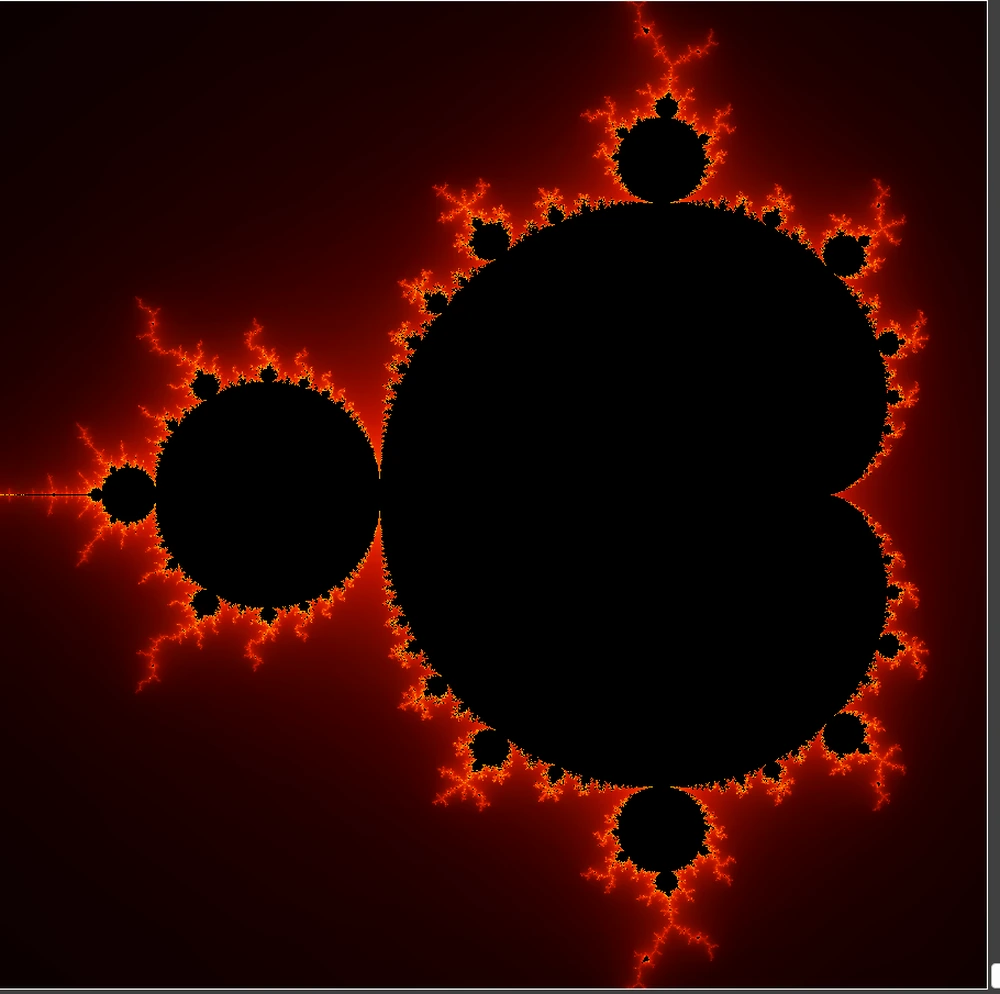
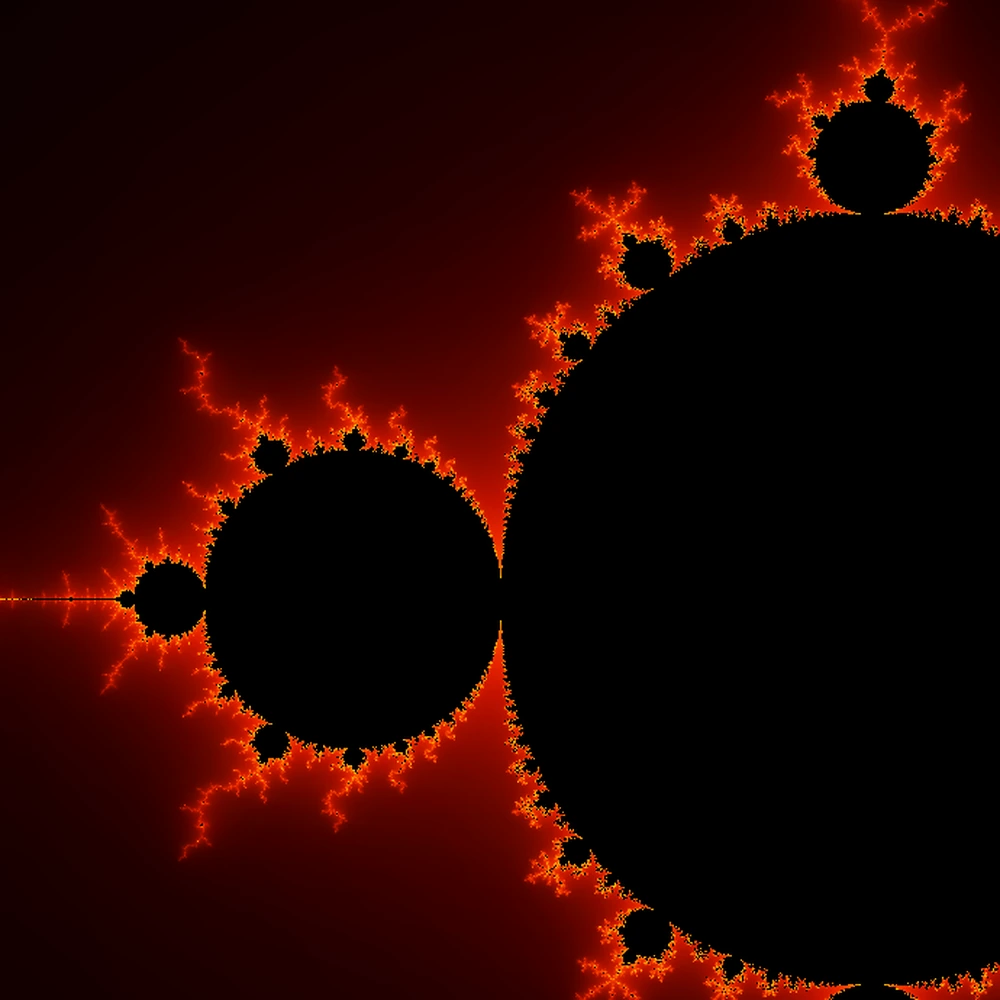
small tweaks

diff --git a/gallery.html b/gallery.html
@@ -25,7 +25,7 @@
 <header class="site-header">
   <div class="nav-wrap">
     <a class="brand" href="index.html" aria-label="Shaoda Ji homepage">
-      <span class="brand-mark">SJ</span><span class="brand-text">Shaoda Ji</span>
+      <span class="brand-mark">SJ</span><span class="brand-text" data-en="Shaoda Ji" data-zh="汲绍达">Shaoda Ji</span>
     </a>
     <nav id="site-nav" class="nav-links" aria-label="Main navigation"><a href="index.html" data-en="Home" data-zh="首页">Home</a><a href="research.html" data-en="Research" data-zh="研究">Research</a><a href="teaching.html" data-en="Teaching" data-zh="教学">Teaching</a><a href="notes.html" data-en="Notes" data-zh="笔记">Notes</a><a href="cv.html" data-en="CV" data-zh="简历">CV</a><a href="gallery.html" aria-current="page" data-en="Gallery" data-zh="图集">Gallery</a></nav>
     <div class="nav-controls">
@@ -33,7 +33,7 @@
         <span class="control-icon" data-theme-icon aria-hidden="true">☾</span><span class="control-label" data-theme-label>Dark</span>
       </button>
       <button class="control-button" type="button" data-language-toggle aria-label="切换到简体中文" title="切换到简体中文">
-        <span class="control-icon" aria-hidden="true">文</span><span class="control-label" data-language-label>中文</span>
+        <span class="control-icon" aria-hidden="true">🌐</span><span class="control-label" data-language-label>中文</span>
       </button>
       <button class="menu-button" type="button" aria-expanded="false" aria-controls="site-nav" data-en="Menu" data-zh="菜单">Menu</button>
     </div>
@@ -47,7 +47,7 @@
 <section class="section gallery-section section-rule" id="visualization"><div class="container">
   <div class="section-head"><p class="page-kicker" data-en="Visualization" data-zh="可视化">Visualization</p><h2 data-en="Mandelbrot Set" data-zh="曼德博集合">Mandelbrot Set</h2><p data-en="A mathematical visualization generated with my graphing calculator." data-zh="使用我的绘图计算器生成的数学可视化。">A mathematical visualization generated with my graphing calculator.</p></div>
   <article class="gallery-entry">
-    <a class="gallery-media" href="assets/img/gallery-mandelbrot.webp" aria-label="Open the Mandelbrot set image"><img src="assets/img/gallery-mandelbrot.webp" width="1000" height="994" loading="lazy" alt="Mandelbrot set rendered in orange and black" data-alt-en="Mandelbrot set rendered in orange and black" data-alt-zh="以橙色与黑色呈现的曼德博集合"></a>
+    <a class="gallery-media" href="assets/img/gallery-mandelbrot.webp" aria-label="Open the Mandelbrot set image"><img src="assets/img/gallery-mandelbrot.webp" width="1000" height="1000" loading="lazy" alt="Mandelbrot set rendered in orange and black" data-alt-en="Mandelbrot set rendered in orange and black" data-alt-zh="以橙色与黑色呈现的曼德博集合"></a>
     <div class="gallery-copy"><h3 data-en="Mandelbrot Set" data-zh="曼德博集合">Mandelbrot Set</h3><p data-en="This rendering comes from the iteration z&lt;sub&gt;n+1&lt;/sub&gt; = z&lt;sub&gt;n&lt;/sub&gt;&lt;sup&gt;2&lt;/sup&gt; + c. A simple recurrence produces a boundary with intricate, self-similar structure at every scale." data-zh="这幅图像来自迭代 z&lt;sub&gt;n+1&lt;/sub&gt; = z&lt;sub&gt;n&lt;/sub&gt;&lt;sup&gt;2&lt;/sup&gt; + c。一个简单的递推在边界处产生了任意尺度下都极其复杂、具有自相似性的结构。">This rendering comes from the iteration z<sub>n+1</sub> = z<sub>n</sub><sup>2</sup> + c. A simple recurrence produces a boundary with intricate, self-similar structure at every scale.</p><p data-en="The image was produced in the complex-number mode of my graphing calculator." data-zh="图像由我的绘图计算器在复数模式下生成。">The image was produced in the complex-number mode of my graphing calculator.</p></div>
   </article>
 </div></section>
@@ -60,7 +60,7 @@
 </div></section>
 </main>
 <footer class="site-footer"><div class="container footer-grid">
-  <div>© <span data-year></span> Shaoda Ji</div>
+  <div data-en="© <span data-year></span> Shaoda Ji" data-zh="© <span data-year></span> 汲绍达">© <span data-year></span> Shaoda Ji</div>
   <div class="footer-links">
     <a href="mailto:[email redacted]" data-en="Email" data-zh="邮件">Email</a>
     <a href="https://math.washington.edu/people/shaoda-ji" data-en="UW profile" data-zh="华大主页">UW profile</a>

diff --git a/index.html b/index.html
@@ -28,7 +28,7 @@
 <header class="site-header">
   <div class="nav-wrap">
     <a class="brand" href="index.html" aria-label="Shaoda Ji homepage">
-      <span class="brand-mark">SJ</span><span class="brand-text">Shaoda Ji</span>
+      <span class="brand-mark">SJ</span><span class="brand-text" data-en="Shaoda Ji" data-zh="汲绍达">Shaoda Ji</span>
     </a>
     <nav id="site-nav" class="nav-links" aria-label="Main navigation"><a href="index.html" aria-current="page" data-en="Home" data-zh="首页">Home</a><a href="research.html" data-en="Research" data-zh="研究">Research</a><a href="teaching.html" data-en="Teaching" data-zh="教学">Teaching</a><a href="notes.html" data-en="Notes" data-zh="笔记">Notes</a><a href="cv.html" data-en="CV" data-zh="简历">CV</a><a href="gallery.html" data-en="Gallery" data-zh="图集">Gallery</a></nav>
     <div class="nav-controls">
@@ -36,7 +36,7 @@
         <span class="control-icon" data-theme-icon aria-hidden="true">☾</span><span class="control-label" data-theme-label>Dark</span>
       </button>
       <button class="control-button" type="button" data-language-toggle aria-label="切换到简体中文" title="切换到简体中文">
-        <span class="control-icon" aria-hidden="true">文</span><span class="control-label" data-language-label>中文</span>
+        <span class="control-icon" aria-hidden="true">🌐</span><span class="control-label" data-language-label>中文</span>
       </button>
       <button class="menu-button" type="button" aria-expanded="false" aria-controls="site-nav" data-en="Menu" data-zh="菜单">Menu</button>
     </div>
@@ -46,7 +46,7 @@
 <section class="hero"><div class="container hero-grid">
   <div>
     <p class="eyebrow" data-en="Mathematics · University of Washington" data-zh="数学 · 华盛顿大学">Mathematics · University of Washington</p>
-    <h1>Shaoda Ji</h1>
+    <h1 data-en="Shaoda Ji" data-zh="汲绍达">Shaoda Ji</h1>
     <p class="role" data-en="PhD student in mathematics" data-zh="数学博士生">PhD student in mathematics</p>
     <p class="lede" data-en="I work in geometric analysis, differential geometry, and partial differential equations. I am especially interested in geometry on manifolds, geometric visualization, and teaching mathematics both in person and online." data-zh="我的研究方向是几何分析、微分几何与偏微分方程。我尤其关注流形上的几何、几何可视化，以及课堂和线上的数学教学。">I work in geometric analysis, differential geometry, and partial differential equations. I am especially interested in geometry on manifolds, geometric visualization, and teaching mathematics both in person and online.</p>
     <div class="hero-actions">
@@ -91,7 +91,7 @@
 </div></section>
 </main>
 <footer class="site-footer"><div class="container footer-grid">
-  <div>© <span data-year></span> Shaoda Ji</div>
+  <div data-en="© <span data-year></span> Shaoda Ji" data-zh="© <span data-year></span> 汲绍达">© <span data-year></span> Shaoda Ji</div>
   <div class="footer-links">
     <a href="mailto:[email redacted]" data-en="Email" data-zh="邮件">Email</a>
     <a href="https://math.washington.edu/people/shaoda-ji" data-en="UW profile" data-zh="华大主页">UW profile</a>

diff --git a/404.html b/404.html
@@ -25,7 +25,7 @@
 <header class="site-header">
   <div class="nav-wrap">
     <a class="brand" href="index.html" aria-label="Shaoda Ji homepage">
-      <span class="brand-mark">SJ</span><span class="brand-text">Shaoda Ji</span>
+      <span class="brand-mark">SJ</span><span class="brand-text" data-en="Shaoda Ji" data-zh="汲绍达">Shaoda Ji</span>
     </a>
     <nav id="site-nav" class="nav-links" aria-label="Main navigation"><a href="index.html" data-en="Home" data-zh="首页">Home</a><a href="research.html" data-en="Research" data-zh="研究">Research</a><a href="teaching.html" data-en="Teaching" data-zh="教学">Teaching</a><a href="notes.html" data-en="Notes" data-zh="笔记">Notes</a><a href="cv.html" data-en="CV" data-zh="简历">CV</a><a href="gallery.html" data-en="Gallery" data-zh="图集">Gallery</a></nav>
     <div class="nav-controls">
@@ -33,7 +33,7 @@
         <span class="control-icon" data-theme-icon aria-hidden="true">☾</span><span class="control-label" data-theme-label>Dark</span>
       </button>
       <button class="control-button" type="button" data-language-toggle aria-label="切换到简体中文" title="切换到简体中文">
-        <span class="control-icon" aria-hidden="true">文</span><span class="control-label" data-language-label>中文</span>
+        <span class="control-icon" aria-hidden="true">🌐</span><span class="control-label" data-language-label>中文</span>
       </button>
       <button class="menu-button" type="button" aria-expanded="false" aria-controls="site-nav" data-en="Menu" data-zh="菜单">Menu</button>
     </div>
@@ -41,7 +41,7 @@
 </header>
 <main id="main"><section class="page-hero"><div class="narrow"><p class="page-kicker" data-en="404" data-zh="404">404</p><h1 data-en="Page not found" data-zh="页面未找到">Page not found</h1><p data-en="The requested page does not exist." data-zh="请求的页面不存在。">The requested page does not exist.</p><a href="index.html" class="button primary" data-en="Return home" data-zh="返回首页">Return home</a></div></section></main>
 <footer class="site-footer"><div class="container footer-grid">
-  <div>© <span data-year></span> Shaoda Ji</div>
+  <div data-en="© <span data-year></span> Shaoda Ji" data-zh="© <span data-year></span> 汲绍达">© <span data-year></span> Shaoda Ji</div>
   <div class="footer-links">
     <a href="mailto:[email redacted]" data-en="Email" data-zh="邮件">Email</a>
     <a href="https://math.washington.edu/people/shaoda-ji" data-en="UW profile" data-zh="华大主页">UW profile</a>

diff --git a/cv.html b/cv.html
@@ -25,7 +25,7 @@
 <header class="site-header">
   <div class="nav-wrap">
     <a class="brand" href="index.html" aria-label="Shaoda Ji homepage">
-      <span class="brand-mark">SJ</span><span class="brand-text">Shaoda Ji</span>
+      <span class="brand-mark">SJ</span><span class="brand-text" data-en="Shaoda Ji" data-zh="汲绍达">Shaoda Ji</span>
     </a>
     <nav id="site-nav" class="nav-links" aria-label="Main navigation"><a href="index.html" data-en="Home" data-zh="首页">Home</a><a href="research.html" data-en="Research" data-zh="研究">Research</a><a href="teaching.html" data-en="Teaching" data-zh="教学">Teaching</a><a href="notes.html" data-en="Notes" data-zh="笔记">Notes</a><a href="cv.html" aria-current="page" data-en="CV" data-zh="简历">CV</a><a href="gallery.html" data-en="Gallery" data-zh="图集">Gallery</a></nav>
     <div class="nav-controls">
@@ -33,7 +33,7 @@
         <span class="control-icon" data-theme-icon aria-hidden="true">☾</span><span class="control-label" data-theme-label>Dark</span>
       </button>
       <button class="control-button" type="button" data-language-toggle aria-label="切换到简体中文" title="切换到简体中文">
-        <span class="control-icon" aria-hidden="true">文</span><span class="control-label" data-language-label>中文</span>
+        <span class="control-icon" aria-hidden="true">🌐</span><span class="control-label" data-language-label>中文</span>
       </button>
       <button class="menu-button" type="button" aria-expanded="false" aria-controls="site-nav" data-en="Menu" data-zh="菜单">Menu</button>
     </div>
@@ -54,7 +54,7 @@
 </div></section>
 </main>
 <footer class="site-footer"><div class="container footer-grid">
-  <div>© <span data-year></span> Shaoda Ji</div>
+  <div data-en="© <span data-year></span> Shaoda Ji" data-zh="© <span data-year></span> 汲绍达">© <span data-year></span> Shaoda Ji</div>
   <div class="footer-links">
     <a href="mailto:[email redacted]" data-en="Email" data-zh="邮件">Email</a>
     <a href="https://math.washington.edu/people/shaoda-ji" data-en="UW profile" data-zh="华大主页">UW profile</a>

diff --git a/notes.html b/notes.html
@@ -25,7 +25,7 @@
 <header class="site-header">
   <div class="nav-wrap">
     <a class="brand" href="index.html" aria-label="Shaoda Ji homepage">
-      <span class="brand-mark">SJ</span><span class="brand-text">Shaoda Ji</span>
+      <span class="brand-mark">SJ</span><span class="brand-text" data-en="Shaoda Ji" data-zh="汲绍达">Shaoda Ji</span>
     </a>
     <nav id="site-nav" class="nav-links" aria-label="Main navigation"><a href="index.html" data-en="Home" data-zh="首页">Home</a><a href="research.html" data-en="Research" data-zh="研究">Research</a><a href="teaching.html" data-en="Teaching" data-zh="教学">Teaching</a><a href="notes.html" aria-current="page" data-en="Notes" data-zh="笔记">Notes</a><a href="cv.html" data-en="CV" data-zh="简历">CV</a><a href="gallery.html" data-en="Gallery" data-zh="图集">Gallery</a></nav>
     <div class="nav-controls">
@@ -33,7 +33,7 @@
         <span class="control-icon" data-theme-icon aria-hidden="true">☾</span><span class="control-label" data-theme-label>Dark</span>
       </button>
       <button class="control-button" type="button" data-language-toggle aria-label="切换到简体中文" title="切换到简体中文">
-        <span class="control-icon" aria-hidden="true">文</span><span class="control-label" data-language-label>中文</span>
+        <span class="control-icon" aria-hidden="true">🌐</span><span class="control-label" data-language-label>中文</span>
       </button>
       <button class="menu-button" type="button" aria-expanded="false" aria-controls="site-nav" data-en="Menu" data-zh="菜单">Menu</button>
     </div>
@@ -70,7 +70,7 @@
     </article></div></section><section class="section section-rule"><div class="narrow prose"><h2 data-en="About the collection" data-zh="关于本合集">About the collection</h2><p data-en="This page gathers polished expository notes, diagrams, and lecture materials rather than a complete archive of working calculations. The emphasis is on self-contained arguments and visual organization that may be useful to students." data-zh="本页收录经过整理的阐释性笔记、图示与讲座材料，而不是全部草稿计算。重点是自足的论证与便于学生使用的视觉组织。">This page gathers polished expository notes, diagrams, and lecture materials rather than a complete archive of working calculations. The emphasis is on self-contained arguments and visual organization that may be useful to students.</p></div></section>
 </main>
 <footer class="site-footer"><div class="container footer-grid">
-  <div>© <span data-year></span> Shaoda Ji</div>
+  <div data-en="© <span data-year></span> Shaoda Ji" data-zh="© <span data-year></span> 汲绍达">© <span data-year></span> Shaoda Ji</div>
   <div class="footer-links">
     <a href="mailto:[email redacted]" data-en="Email" data-zh="邮件">Email</a>
     <a href="https://math.washington.edu/people/shaoda-ji" data-en="UW profile" data-zh="华大主页">UW profile</a>

diff --git a/research.html b/research.html
@@ -25,7 +25,7 @@
 <header class="site-header">
   <div class="nav-wrap">
     <a class="brand" href="index.html" aria-label="Shaoda Ji homepage">
-      <span class="brand-mark">SJ</span><span class="brand-text">Shaoda Ji</span>
+      <span class="brand-mark">SJ</span><span class="brand-text" data-en="Shaoda Ji" data-zh="汲绍达">Shaoda Ji</span>
     </a>
     <nav id="site-nav" class="nav-links" aria-label="Main navigation"><a href="index.html" data-en="Home" data-zh="首页">Home</a><a href="research.html" aria-current="page" data-en="Research" data-zh="研究">Research</a><a href="teaching.html" data-en="Teaching" data-zh="教学">Teaching</a><a href="notes.html" data-en="Notes" data-zh="笔记">Notes</a><a href="cv.html" data-en="CV" data-zh="简历">CV</a><a href="gallery.html" data-en="Gallery" data-zh="图集">Gallery</a></nav>
     <div class="nav-controls">
@@ -33,7 +33,7 @@
         <span class="control-icon" data-theme-icon aria-hidden="true">☾</span><span class="control-label" data-theme-label>Dark</span>
       </button>
       <button class="control-button" type="button" data-language-toggle aria-label="切换到简体中文" title="切换到简体中文">
-        <span class="control-icon" aria-hidden="true">文</span><span class="control-label" data-language-label>中文</span>
+        <span class="control-icon" aria-hidden="true">🌐</span><span class="control-label" data-language-label>中文</span>
       </button>
       <button class="menu-button" type="button" aria-expanded="false" aria-controls="site-nav" data-en="Menu" data-zh="菜单">Menu</button>
     </div>
@@ -70,7 +70,7 @@
 </div></section>
 </main>
 <footer class="site-footer"><div class="container footer-grid">
-  <div>© <span data-year></span> Shaoda Ji</div>
+  <div data-en="© <span data-year></span> Shaoda Ji" data-zh="© <span data-year></span> 汲绍达">© <span data-year></span> Shaoda Ji</div>
   <div class="footer-links">
     <a href="mailto:[email redacted]" data-en="Email" data-zh="邮件">Email</a>
     <a href="https://math.washington.edu/people/shaoda-ji" data-en="UW profile" data-zh="华大主页">UW profile</a>

diff --git a/teaching.html b/teaching.html
@@ -25,7 +25,7 @@
 <header class="site-header">
   <div class="nav-wrap">
     <a class="brand" href="index.html" aria-label="Shaoda Ji homepage">
-      <span class="brand-mark">SJ</span><span class="brand-text">Shaoda Ji</span>
+      <span class="brand-mark">SJ</span><span class="brand-text" data-en="Shaoda Ji" data-zh="汲绍达">Shaoda Ji</span>
     </a>
     <nav id="site-nav" class="nav-links" aria-label="Main navigation"><a href="index.html" data-en="Home" data-zh="首页">Home</a><a href="research.html" data-en="Research" data-zh="研究">Research</a><a href="teaching.html" aria-current="page" data-en="Teaching" data-zh="教学">Teaching</a><a href="notes.html" data-en="Notes" data-zh="笔记">Notes</a><a href="cv.html" data-en="CV" data-zh="简历">CV</a><a href="gallery.html" data-en="Gallery" data-zh="图集">Gallery</a></nav>
     <div class="nav-controls">
@@ -33,7 +33,7 @@
         <span class="control-icon" data-theme-icon aria-hidden="true">☾</span><span class="control-label" data-theme-label>Dark</span>
       </button>
       <button class="control-button" type="button" data-language-toggle aria-label="切换到简体中文" title="切换到简体中文">
-        <span class="control-icon" aria-hidden="true">文</span><span class="control-label" data-language-label>中文</span>
+        <span class="control-icon" aria-hidden="true">🌐</span><span class="control-label" data-language-label>中文</span>
       </button>
       <button class="menu-button" type="button" aria-expanded="false" aria-controls="site-nav" data-en="Menu" data-zh="菜单">Menu</button>
     </div>
@@ -82,7 +82,7 @@
 <section class="section section-rule"><div class="narrow prose"><h2 data-en="Teaching philosophy" data-zh="教学理念">Teaching philosophy</h2><p data-en="I want students to see the mathematical object before they become buried in notation. Pictures, explicit computations, and carefully chosen examples can reveal the structure behind a definition without sacrificing rigor." data-zh="我希望学生在被符号淹没之前，先看见数学对象本身。图像、具体计算和精心选择的例子，可以在不牺牲严谨性的前提下揭示定义背后的结构。">I want students to see the mathematical object before they become buried in notation. Pictures, explicit computations, and carefully chosen examples can reveal the structure behind a definition without sacrificing rigor.</p><p data-en="My goal is to help students move between three views of a problem: geometric intuition, symbolic calculation, and proof." data-zh="我的目标是帮助学生在几何直觉、符号计算与证明这三种视角之间自由切换。">My goal is to help students move between three views of a problem: geometric intuition, symbolic calculation, and proof.</p><div class="note"><strong data-en="Course materials:" data-zh="课程材料：">Course materials:</strong> <span data-en="Public notes and selected expository writing will continue to be added here as they are prepared for wider use." data-zh="面向公开使用整理完成后，我会继续在此加入笔记与精选阐释性写作。">Public notes and selected expository writing will continue to be added here as they are prepared for wider use.</span></div></div></section>
 </main>
 <footer class="site-footer"><div class="container footer-grid">
-  <div>© <span data-year></span> Shaoda Ji</div>
+  <div data-en="© <span data-year></span> Shaoda Ji" data-zh="© <span data-year></span> 汲绍达">© <span data-year></span> Shaoda Ji</div>
   <div class="footer-links">
     <a href="mailto:[email redacted]" data-en="Email" data-zh="邮件">Email</a>
     <a href="https://math.washington.edu/people/shaoda-ji" data-en="UW profile" data-zh="华大主页">UW profile</a>